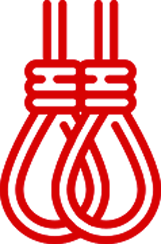
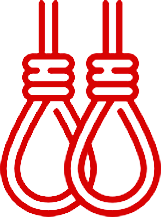
updated noose images to match in quality and dimensions

diff --git a/index.html b/index.html
@@ -69,9 +69,9 @@
             </p>
 
             <p class="about__text">
-                We offer 
-                <span class="about__text__big">three</span> distinct packages to suit your specific needs. We recommend that you sign up while you are still alive. However it's also possible to purchase plans for 
-                <span class="about__text__big">friends and family</span>. Gift cards are avaible for our exclusive tier 3 plan. 
+                We offer
+                <span class="about__text__big">three</span> distinct packages to suit your specific needs. We recommend that you sign up while you are still alive. However it's also possible to purchase plans for
+                <span class="about__text__big">friends and family</span>. Gift cards are avaible for our exclusive tier 3 plan.
 
             </p>
         </div>
@@ -85,7 +85,9 @@
         <div class="services__container">
             <div class="services__left">
                 <h3> Remembered</h3>
-                <div class="services__img"><img src="images/noose1.png" alt="services" height="30%" width="30%" /></div>
+                <div class="services__img">
+                  <img src="images/noose1.png" alt="services">
+                </div>
                 <p>
                     <ul class="services__list">
                         <li>We’ll help you evade post-death shame by deleting your browser search history</li>
@@ -98,7 +100,7 @@
             </div>
             <div class="services__center">
                 <h3> Perennial</h3>
-                <div class="services__img"><img src="images/noose2.png" alt="services" height="20%" width="20%"></div>
+                <div class="services__img"><img src="images/noose2.png" alt="services"></div>
                 <p>
                     <ul class="services__list">
                         <li>Everything from tier 1</li>
@@ -111,7 +113,7 @@
             </div>
             <div class="services__right">
                 <h3>Immortal</h3>
-                <div class="services__img"><img src="images/noose3.png" alt="services" height="26%" width="26%" /></div>
+                <div class="services__img"><img src="images/noose3.png" alt="services"></div>
                 <p>
                     <ul class="services__list">
                         <li>Everything from tier 1 and 2</li>

diff --git a/scss/style.scss b/scss/style.scss
@@ -77,7 +77,7 @@ h4 {
     line-height: $font-size-large;
     color: $color-text;
     font-size: $font-size-medium;
-  
+
     @media screen and (min-width: $breakpoint-tablet) {
         font-size: $font-size-medium;
         line-height: $font-size-large;
@@ -138,10 +138,17 @@ h4 {
 }
 
 .services__img {
+
+  img {
+    height: 100%;
+  }
+
+  @supports (display: flex) {
     margin: $pm-large auto;
     display: flex;
     align-items: center;
     justify-content: center;
+    }
 }
 
 // Review section styling goes here
